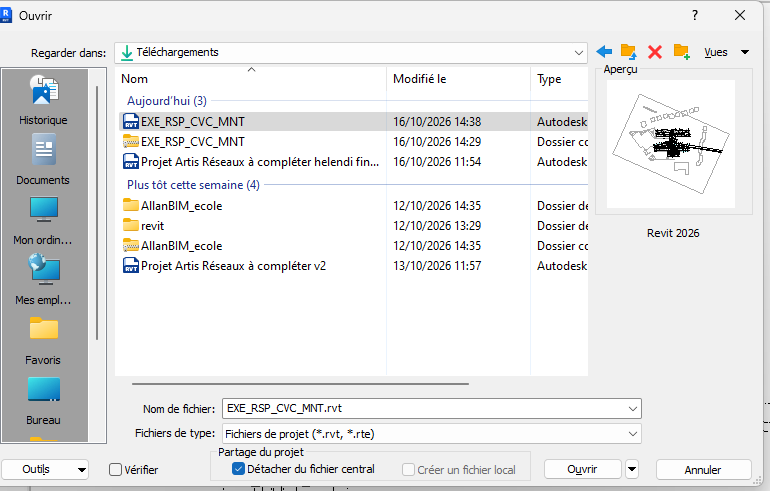
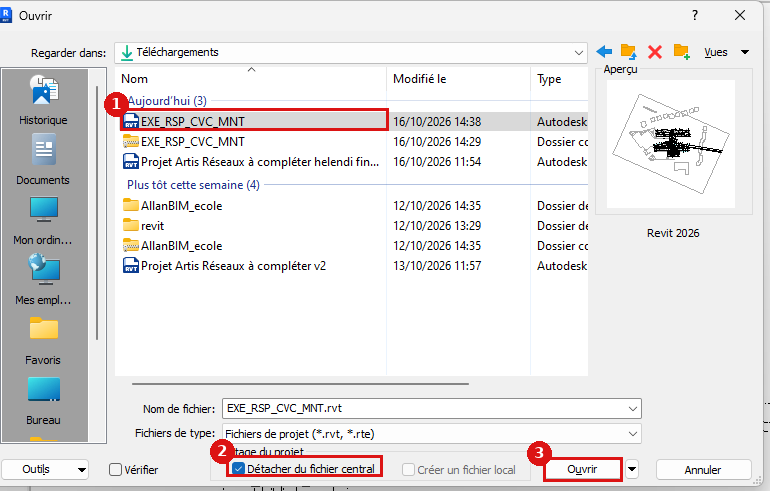
Revit : captures annotées (cadres rouges) pour le tuto détacher / lier
Claude-Session: https://claude.ai/code/session_01EgxYZkTZZRXUaQVcwpyA8L

Changed region(s): [[0.1247, 0.1833, 0.5299, 0.2749], [0.2494, 0.8859, 0.4987, 0.9776], [0.6857, 0.8859, 0.8104, 1.0]]

diff --git a/index.html b/index.html
@@ -335,7 +335,8 @@ tfoot td{font-weight:600}
 .rv-steps{display:grid;grid-template-columns:repeat(auto-fit,minmax(220px,1fr));gap:12px}
 .rv-col{border:1px solid var(--line);border-radius:6px;padding:10px 12px;font-size:14px;min-width:0}
 .rv-col ol{margin:6px 0 0;padding-left:18px;display:grid;gap:4px}
-.rv-shot{margin:12px 0 0;max-width:780px}
+.rv-shots{display:grid;grid-template-columns:repeat(auto-fit,minmax(320px,1fr));gap:14px;margin-top:12px}
+.rv-shot{margin:0;min-width:0}
 .rv-shot img{width:100%;height:auto;border:1px solid var(--line);border-radius:6px;display:block}
 .rv-shot figcaption{font-size:13px;color:var(--muted);margin-top:4px}
 .authbar{display:flex;gap:10px;align-items:center;justify-content:flex-end;flex-wrap:wrap;margin:10px 0 0;font-size:14px}
@@ -655,7 +656,11 @@ tfoot td{font-weight:600}
           <li>Redépose le fichier sur <b>ACC</b> (02_MAQUETTE CVC).</li>
           <li>Note le dépôt dans l'onglet <b>ACC</b> du site.</li></ol></div>
       </div>
-      <figure class="rv-shot"><img src="files/revit-ouvrir-detache.png" alt="Fenêtre Ouvrir de Revit avec la case Détacher du fichier central cochée en bas" loading="lazy"><figcaption>Étape 2 : la case <b>« Détacher du fichier central »</b> est en bas de la fenêtre Ouvrir, dans « Partage du projet ».</figcaption></figure>
+      <div class="rv-shots">
+        <figure class="rv-shot"><img src="files/revit-ouvrir-detache.png" alt="Fenêtre Ouvrir de Revit, avec le fichier, la case Détacher du fichier central et le bouton Ouvrir encadrés en rouge" loading="lazy"><figcaption><b>Étape 2 – Ouvrir détaché :</b> ① sélectionne la maquette, ② coche <b>« Détacher du fichier central »</b>, ③ <b>Ouvrir</b>, puis choisis « Détacher et conserver les sous-projets ».</figcaption></figure>
+        <figure class="rv-shot"><img src="files/revit-gerer-liens.png" alt="Fenêtre Gestion des liens, avec la ligne DCE_ARC_MNT et la flèche du bouton Recharger encadrées en rouge" loading="lazy"><figcaption><b>Étape 3 – Gérer les liens :</b> ① sélectionne <b>DCE_ARC_MNT.rvt</b>, ② clique sur la <b>petite flèche ▾</b> à côté de Recharger → <b>« Recharger depuis… »</b> (ou clic droit sur la ligne). Choisis bien le fichier <b>DCE_ARC</b>, pas la maquette CVC.</figcaption></figure>
+        <figure class="rv-shot"><img src="files/revit-lier-arc.png" alt="Fenêtre Importer/Lier RVT, avec le fichier DCE_ARC_MNT, le positionnement A l'emplacement partagé et le bouton Ouvrir encadrés en rouge" loading="lazy"><figcaption><b>Si « Recharger depuis » ne marche pas :</b> supprime le lien, puis <b>Insérer → Lier Revit</b> : ① <b>DCE_ARC_MNT</b>, ② positionnement <b>« Automatique - A l'emplacement partagé »</b>, ③ <b>Ouvrir</b>.</figcaption></figure>
+      </div>
       <p class="rv-units" style="margin-top:12px"><b>La règle :</b> ACC est la seule version de référence. On repart toujours de la dernière version d'ACC, et on la redépose après avoir travaillé, que ce soit chez soi ou au lycée. Comme chacun a son fichier (PROD, VMC, CHAUF, PLB), il n'y a jamais deux versions du même fichier. Le détachement ne fait rien perdre : les sous-projets sont conservés.</p>
     </section>
     <section class="rv-plan">
